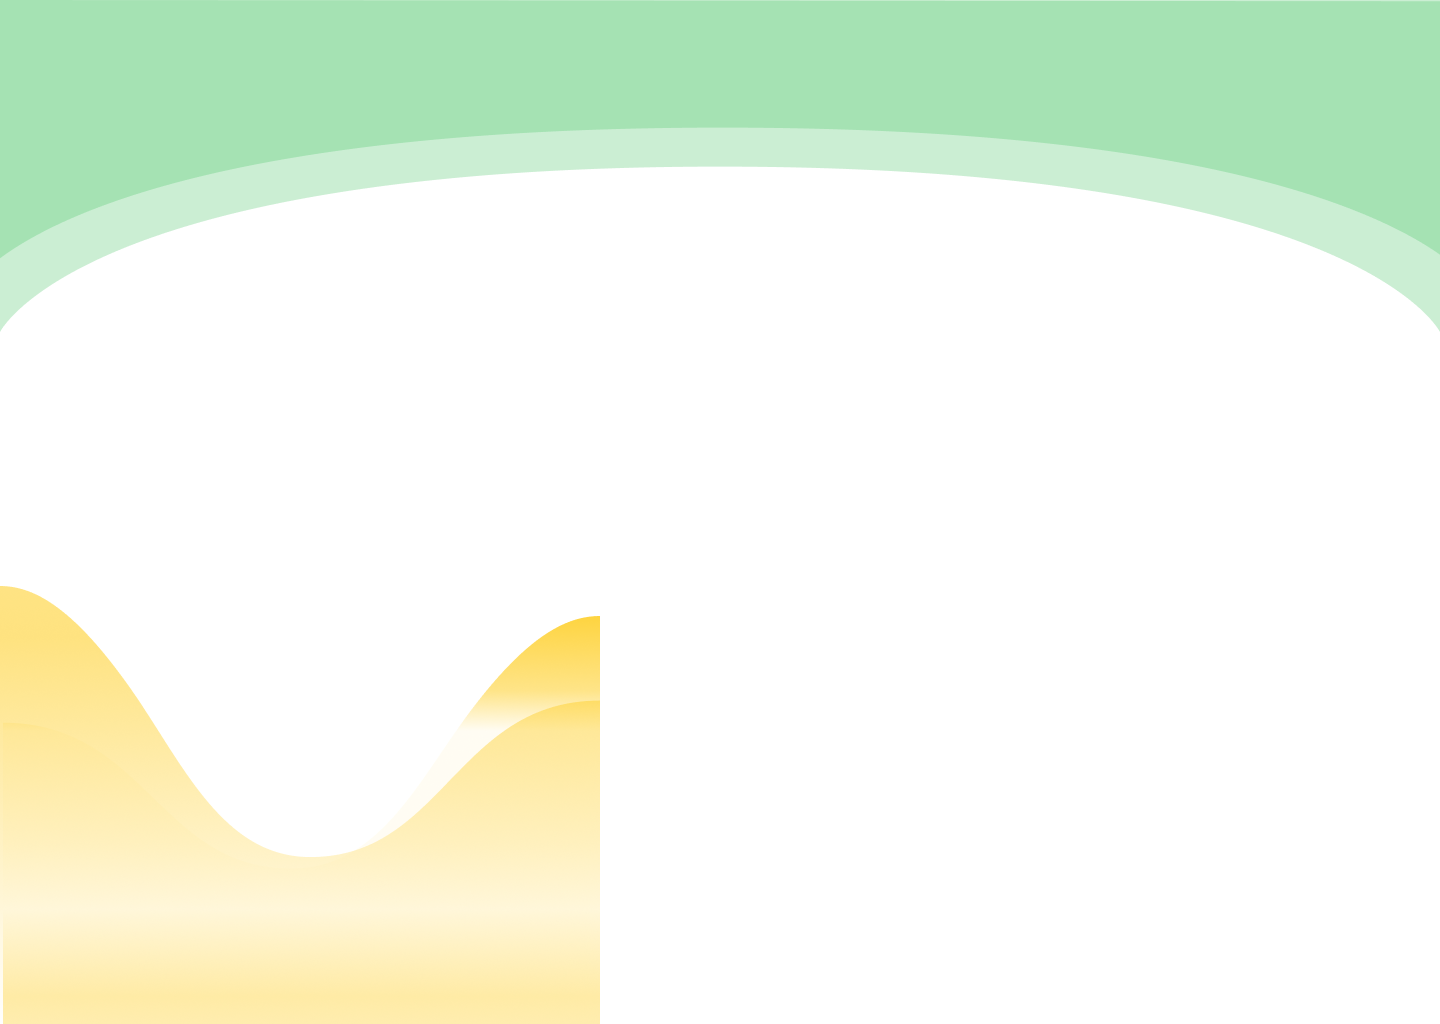
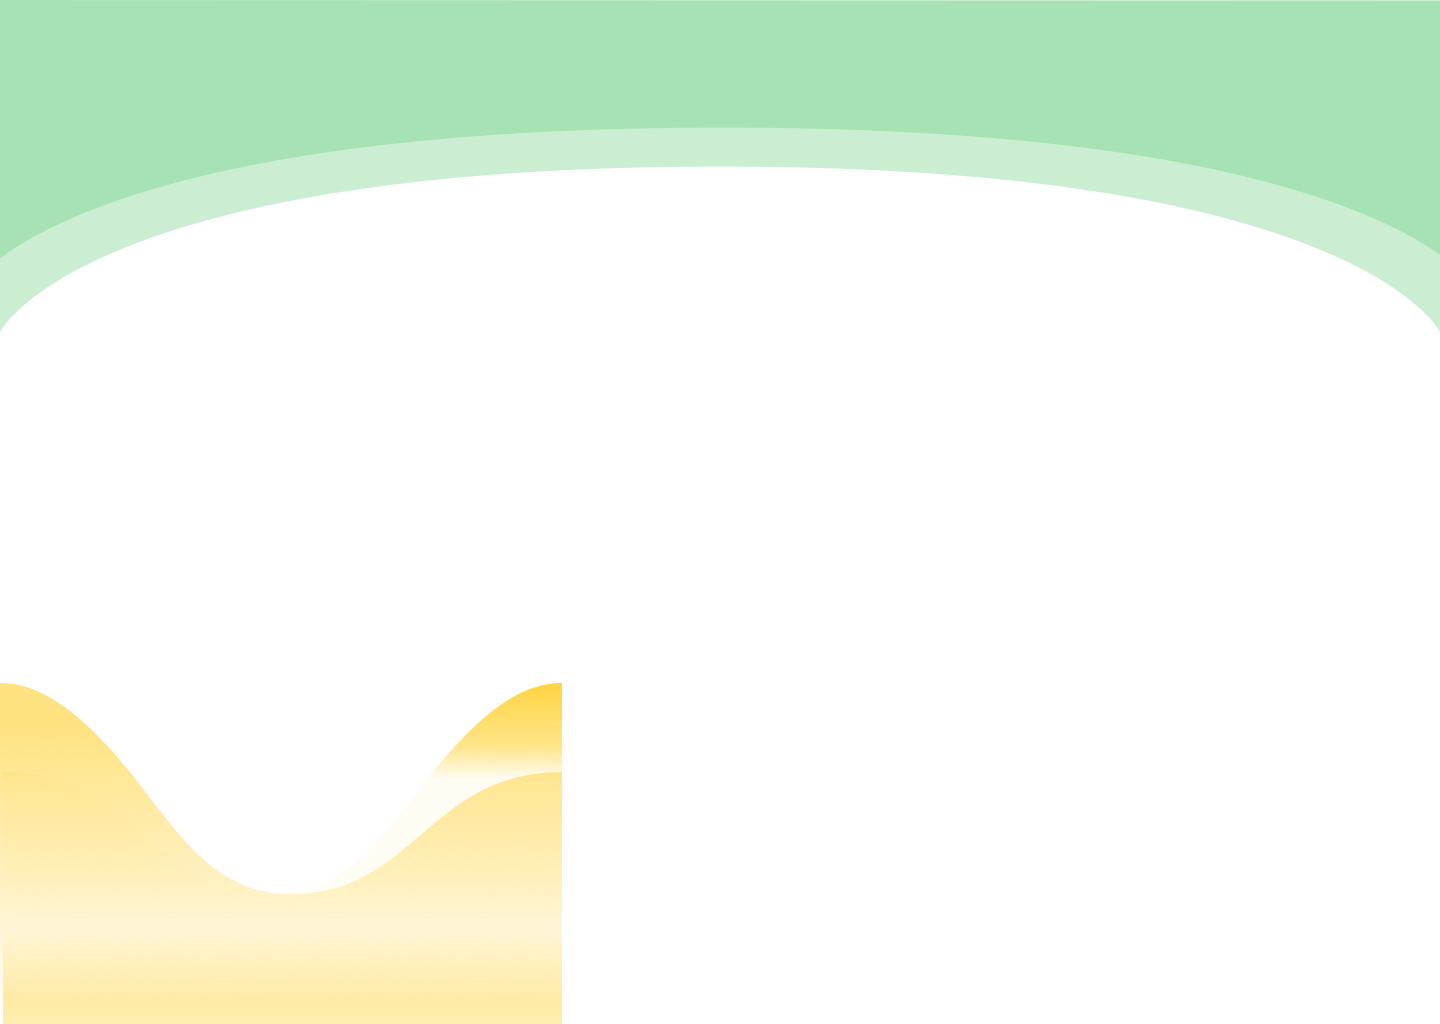
update: background

Changed region(s): [[0.0, 0.5625, 0.4375, 1.0], [0.0, 0.75, 0.0312, 0.7812]]

diff --git a/frontend/src/components/Record.js b/frontend/src/components/Record.js
@@ -14,7 +14,7 @@ const Background = styled.img `
     width: 100%;
     height: 100%;
 
-    content: ' ';
+    content: '';
     display: block;
     position: absolute;
         left: 0;
@@ -23,7 +23,7 @@ const Background = styled.img `
     opacity: 0.4;
     background-image: url("/images/cover_5.png");
     background-repeat: no-repeat;
-    background-position: 50% 0;
+    background-position: 50% ;
     background-size: cover;
 `
 
@@ -146,7 +146,7 @@ export default function Record() {
                     <StyledCalendar></StyledCalendar>
                 </div>
                 <div style={{ display: 'flex' }}>
-                    <div style={{ display: 'block' }}>
+                    <div style={{ display: 'block', height: '1000px' }}>
                         <Row>{tasks.slice(0, 4)?.map(items => <Task items={ items } key={ items.id }/>)}</Row>
                         <Row>{tasks.slice(4, 8)?.map(items => <Task items={ items } key={ items.id }/>)}</Row>
                         <Row>{tasks.slice(8, 12)?.map(items => <Task items={ items } key={ items.id }/>)}</Row>
